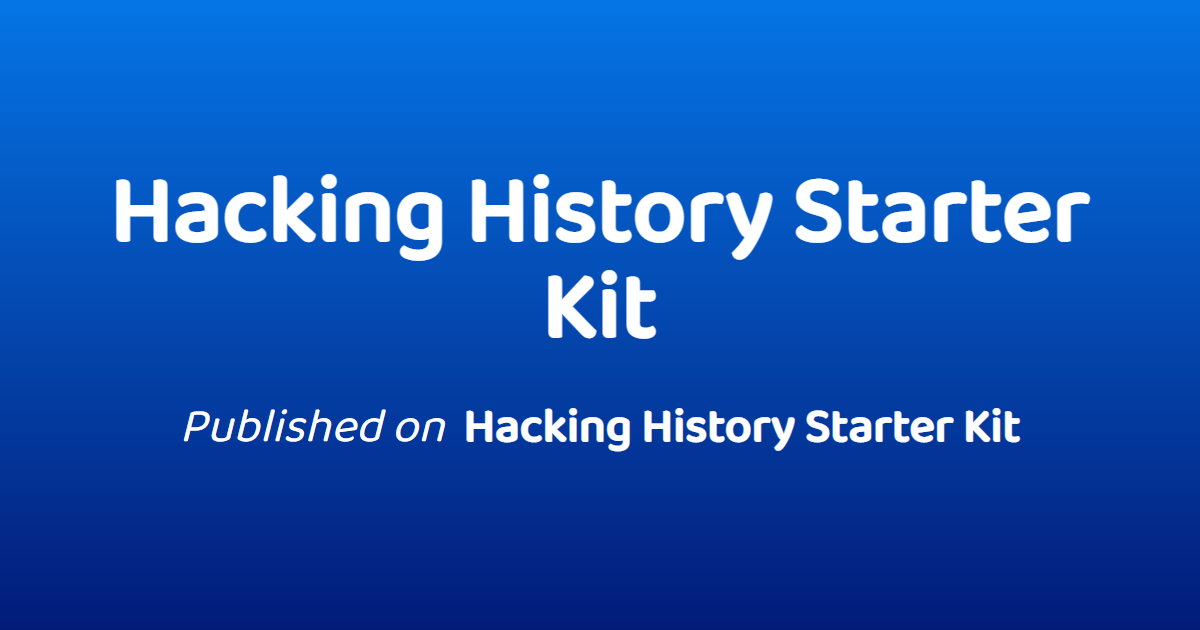
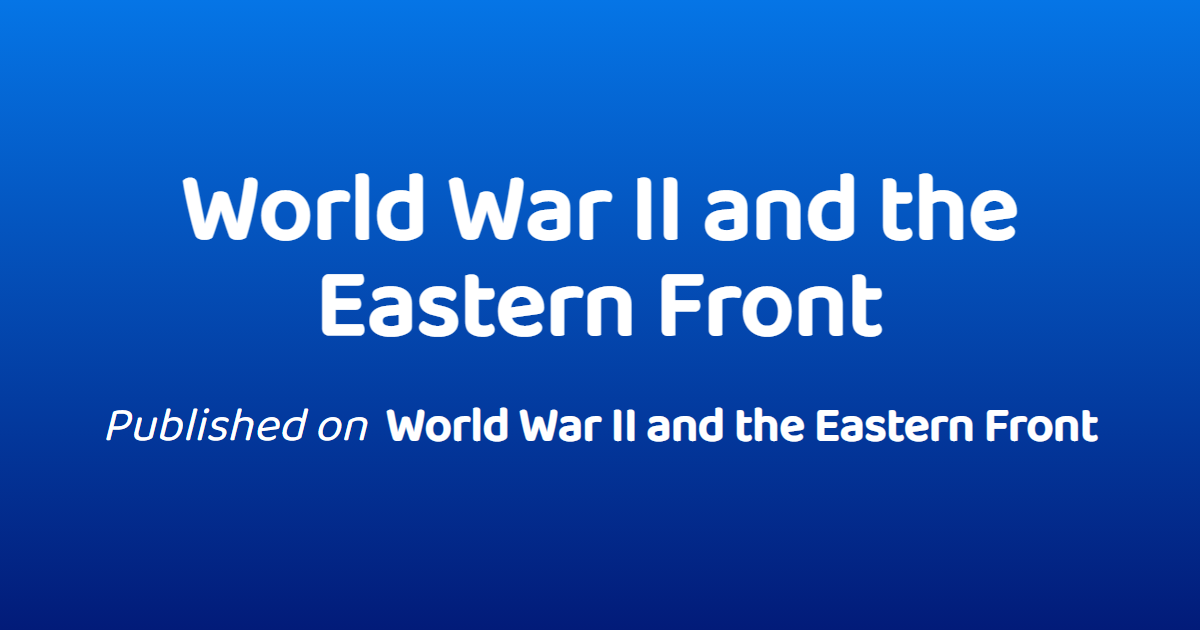
Outline

Changed region(s): [[0.0925, 0.2714, 0.925, 0.4222], [0.0925, 0.6333, 0.925, 0.7238], [0.2467, 0.4222, 0.74, 0.5429]]

diff --git a/docs/testpage/index.html b/docs/testpage/index.html
@@ -4,10 +4,10 @@
     <meta charset="UTF-8" />
     <meta name="viewport" content="width=device-width, initial-scale=1" />
     <meta name="generator" content="eleventy" />
-    <title>Test | World War II and the Eastern Front</title>
+    <title>What is this Project? | World War II and the Eastern Front</title>
     <meta
       name="description"
-      content="A test thing for stuff."
+      content="What this is, who it&amp;#39;s for, and what the plan is."
     />
     <link rel="icon" href="/hh-project-11ty-starter-kit/favicon.png" />
     <link href="/hh-project-11ty-starter-kit/css/style.css" rel="stylesheet" />
@@ -15,23 +15,23 @@
     
     <meta
       name="twitter:title"
-      content="Test | World War II and the Eastern Front"
+      content="What is this Project? | World War II and the Eastern Front"
     />
     <meta
       name="twitter:description"
-      content="A test thing for stuff."
+      content="What this is, who it&amp;#39;s for, and what the plan is."
     />
 
     <meta
       name="og:title"
-      content="Test | World War II and the Eastern Front"
+      content="What is this Project? | World War II and the Eastern Front"
     />
     <meta
       name="og:description"
-      content="A test thing for stuff."
+      content="What this is, who it&amp;#39;s for, and what the plan is."
     />
-    <meta property="og:image" content="https://hackinghistory.github.io/hh-project-11ty-starter-kit//previews/test.png" />
-    <meta name="twitter:image" content="https://hackinghistory.github.io/hh-project-11ty-starter-kit//previews/test.png" />
+    <meta property="og:image" content="https://hackinghistory.github.io/hh-project-11ty-starter-kit//previews/what-is-this-project.png" />
+    <meta name="twitter:image" content="https://hackinghistory.github.io/hh-project-11ty-starter-kit//previews/what-is-this-project.png" />
 
     <link
       rel="alternate"
@@ -68,7 +68,7 @@
         <a
           
           href="/hh-project-11ty-starter-kit/testpage/">
-            Test
+            What is this Project?
         </a>
       </li>
     </ul>
@@ -78,9 +78,9 @@
 
 <header class="tdbc-hero">
   <div class="tdbc-container">
-    <h1 class="tdbc-ink--primary tdbc-mb-none">Test</h1>
+    <h1 class="tdbc-ink--primary tdbc-mb-none">What is this Project?</h1>
     <h2 class="tdbc-lead tdbc-content-maxlength tdbc-ink--gray tdbc-mt-md tdbc-mx-auto">
-      A test thing for stuff.
+      What this is, who it&#39;s for, and what the plan is.
     </h2>
   </div>
 </header>
@@ -88,7 +88,16 @@
 
 <main class="tdbc-container">
   <article class="tdbc-mx-auto">
-    <p>AHHHHHHHHHHHHHHHHHHHH</p>
+    <h1 id="topic" tabindex="-1">Topic<a class="tdbc-anchor" href="#topic" aria-hidden="true">🔗</a></h1>
+<p>This project will focus on the Eastern Front during World War II, also known as the &quot;Great Patriotic War&quot; by the Russian-speaking world due to their late entry against Germany. This was the bloodiest front of the bloodiest conflict in history, seeing tens of millions of soldiers and civilians die due to combat and other external factors like famine or sickness.</p>
+<p>Besides being a massive front in terms of manpower, the size of the Eastern Front is hard to grasp. At around 1000 miles stretching from the Baltic Sea all the way down to the Caucuses, the sheer scale of this front is just as difficult to conceptualize. The size of the front played several key roles during the war, giving the Soviet Union enough space to retreat back to Moscow and slow down the Germans, with the invaders having to stretch out already thing logistical supply lines. Understanding how big the front was is therefore an important part of just learning about World War II.</p>
+<p>The reason mapping has been chosen is to give a visual representation, as names and dates can blend together while seeing something on a map is easier to understand intuitively, In addition, sometimes people just don't know where certain places are located. They might lack knowledge about the region someone closer to the area already possesses, or even worse incorrectly place the location. Maps help resolve this issue and are a good medium to showcase this topic.</p>
+<h1 id="audience" tabindex="-1">Audience<a class="tdbc-anchor" href="#audience" aria-hidden="true">🔗</a></h1>
+<p>The audience of this website can be generally placed as anyone with a passing interest in history, as the goal is to teach people about the scale of the front rather than going into complex military maneuvers or debate tank armor slopes. What little historical context a person needs to understand the topic should be provided in the website itself, but the more a person knows, the better they can understand the information being presented.</p>
+<p>Ultimately the goal is the broadest audience possible, but should that not be feasible then at least people who have prior knowledge about what the Eastern Front was, even if the specifics are lacking. An average user should be able to access the site, without knowing many cities in Eastern Europe, and come out with a general idea of the state of the Eastern Front at various points in time.</p>
+<h1 id="structure" tabindex="-1">Structure<a class="tdbc-anchor" href="#structure" aria-hidden="true">🔗</a></h1>
+<p>This website can be divided into two separate sections: a longer essay form for information, and the maps themselves. An essay will be provided for each major change in the front such as the start, the furthest extent the Germans pushed, and the furthest the Soviets pushed as well. Should there be more time more snapshots can be included, but those are the big three that need to be there. The essays will include information about general force dispositions and important events that have taken place or will soon take place, such as major battles or political events.</p>
+<p>The maps themselves will use the Google Maps API from last year as the base layer with GeoJSON being used to create different shapes on top of the maps themselves. The reason I want to use the Google Maps API is because of prior experience, but also because it has modern-day borders already set up. While historical borders might also be an option, the goal is to visualize how far the front had gone, and I feel that this will be easier with modern-day borders to give context. Important battle locations and other events will also be marked on the map.</p>
 
   </article>
 </main>

diff --git a/docs/index.html b/docs/index.html
@@ -87,8 +87,8 @@
         </div>
       </li><li class="tdbc-card">
         <div class="tdbc-card__content">
-          <a href="/hh-project-11ty-starter-kit/testpage/" class="tdbc-card__title">Test</a>
-          <p>A test thing for stuff.</p>
+          <a href="/hh-project-11ty-starter-kit/testpage/" class="tdbc-card__title">What is this Project?</a>
+          <p>What this is, who it&#39;s for, and what the plan is.</p>
         </div>
       </li></ul>
   </div>

diff --git a/docs/about/index.html b/docs/about/index.html
@@ -68,7 +68,7 @@
         <a
           
           href="/hh-project-11ty-starter-kit/testpage/">
-            Test
+            What is this Project?
         </a>
       </li>
     </ul>

diff --git a/docs/staging/two-column/index.html b/docs/staging/two-column/index.html
@@ -68,7 +68,7 @@
         <a
           
           href="/hh-project-11ty-starter-kit/testpage/">
-            Test
+            What is this Project?
         </a>
       </li>
     </ul>

diff --git a/docs/styledemo/index.html b/docs/styledemo/index.html
@@ -68,7 +68,7 @@
         <a
           
           href="/hh-project-11ty-starter-kit/testpage/">
-            Test
+            What is this Project?
         </a>
       </li>
     </ul>

diff --git a/src/pages/testpage.md b/src/pages/testpage.md
@@ -1,6 +1,24 @@
 ---
-title: "Test"
-description: "A test thing for stuff."
+title: "What is this Project?"
+description: "What this is, who it's for, and what the plan is."
 ---
 
-AHHHHHHHHHHHHHHHHHHHH
+# Topic
+
+This project will focus on the Eastern Front during World War II, also known as the "Great Patriotic War" by the Russian-speaking world due to their late entry against Germany. This was the bloodiest front of the bloodiest conflict in history, seeing tens of millions of soldiers and civilians die due to combat and other external factors like famine or sickness.
+
+Besides being a massive front in terms of manpower, the size of the Eastern Front is hard to grasp. At around 1000 miles stretching from the Baltic Sea all the way down to the Caucuses, the sheer scale of this front is just as difficult to conceptualize. The size of the front played several key roles during the war, giving the Soviet Union enough space to retreat back to Moscow and slow down the Germans, with the invaders having to stretch out already thing logistical supply lines. Understanding how big the front was is therefore an important part of just learning about World War II.
+
+The reason mapping has been chosen is to give a visual representation, as names and dates can blend together while seeing something on a map is easier to understand intuitively, In addition, sometimes people just don't know where certain places are located. They might lack knowledge about the region someone closer to the area already possesses, or even worse incorrectly place the location. Maps help resolve this issue and are a good medium to showcase this topic.
+
+# Audience
+
+The audience of this website can be generally placed as anyone with a passing interest in history, as the goal is to teach people about the scale of the front rather than going into complex military maneuvers or debate tank armor slopes. What little historical context a person needs to understand the topic should be provided in the website itself, but the more a person knows, the better they can understand the information being presented.
+
+Ultimately the goal is the broadest audience possible, but should that not be feasible then at least people who have prior knowledge about what the Eastern Front was, even if the specifics are lacking. An average user should be able to access the site, without knowing many cities in Eastern Europe, and come out with a general idea of the state of the Eastern Front at various points in time.
+
+# Structure 
+
+This website can be divided into two separate sections: a longer essay form for information, and the maps themselves. An essay will be provided for each major change in the front such as the start, the furthest extent the Germans pushed, and the furthest the Soviets pushed as well. Should there be more time more snapshots can be included, but those are the big three that need to be there. The essays will include information about general force dispositions and important events that have taken place or will soon take place, such as major battles or political events.
+
+The maps themselves will use the Google Maps API from last year as the base layer with GeoJSON being used to create different shapes on top of the maps themselves. The reason I want to use the Google Maps API is because of prior experience, but also because it has modern-day borders already set up. While historical borders might also be an option, the goal is to visualize how far the front had gone, and I feel that this will be easier with modern-day borders to give context. Important battle locations and other events will also be marked on the map.
